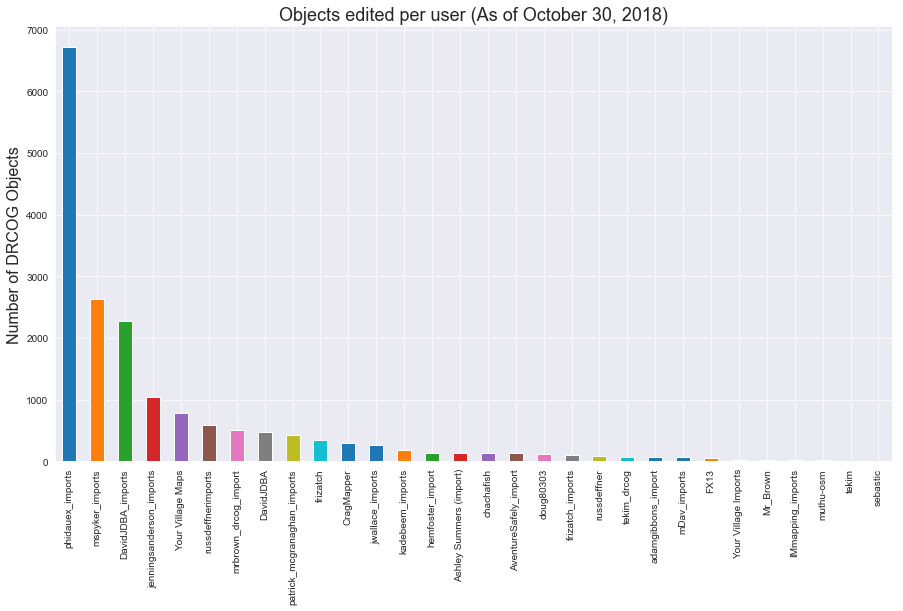
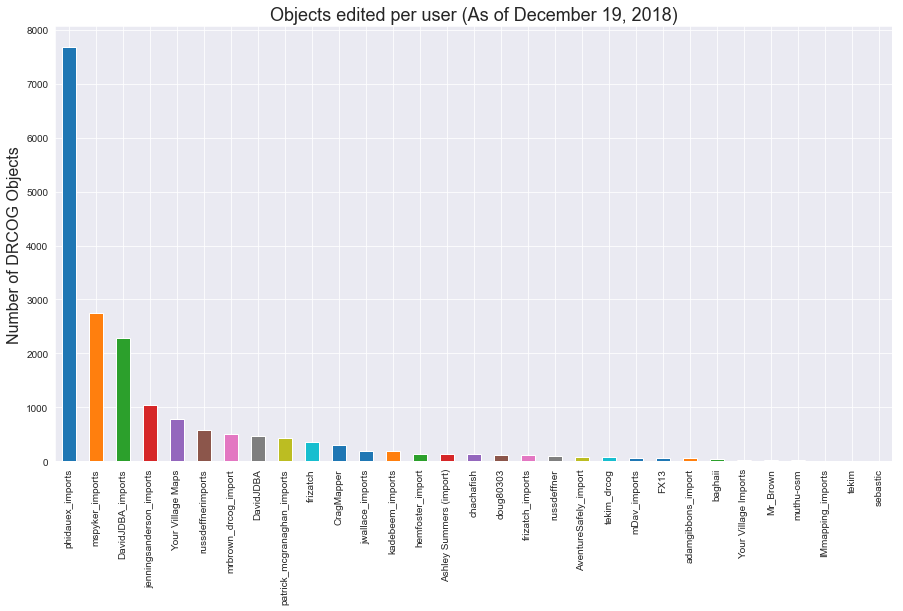
big update

diff --git a/docs/stats/index.html b/docs/stats/index.html
@@ -15,14 +15,21 @@
 		<a style="background-color:#388635;" href="/" class="link btn round color-white mt12">Back</a>
 	</header>
 
-	<section class="align-center py24 bg-darken10">
-		<h4>DRCOG objects as of October 31, 2018: <strong>17,726</strong></h4>
+	<section class="align-center py24">
+		<h4>DRCOG objects as of December 19, 2018: <strong>18,707</strong></h4>
 	</section>
+
+
+	<section class="align-center py24 bg-darken10">
+		<p>General numbers for the Greater Denver Area:</p>
+		<img class='graph' src="buildings-in-drcog-area.png" />
+	</section>
+	
 
 	<section class="align-center py24">
 		<p>October 2018 was our initial kickoff: We imported over 15k buildings.</p>
 		<br>
-		<img class='graph' src="drcog-october.png" />
+		<img class='graph' src="drcog-per-day.png" />
 	</section>
 
 	<section class="align-center py24 bg-darken10">

diff --git a/docs/index.html b/docs/index.html
@@ -207,7 +207,7 @@
 
       <h4 class="txt-h4 align-center txt-em py12">Track our Progress</h4>
 
-      <img class='graph' src="stats/drcog-october.png" />
+      <img class='graph' src="stats/drcog-per-day.png" />
 
       <br>
 

diff --git a/stats/README.md b/stats/README.md
@@ -1,5 +1,8 @@
 Stats
 -----
-A couple of utilities to track the stats... 
 
- 
+Some utilities to track and count the stats for DrCog Edits.
+
+Based mostly on GeoFabrik extracts: https://osm-internal.download.geofabrik.de/north-america/us/colorado.html?
+
+1. 
